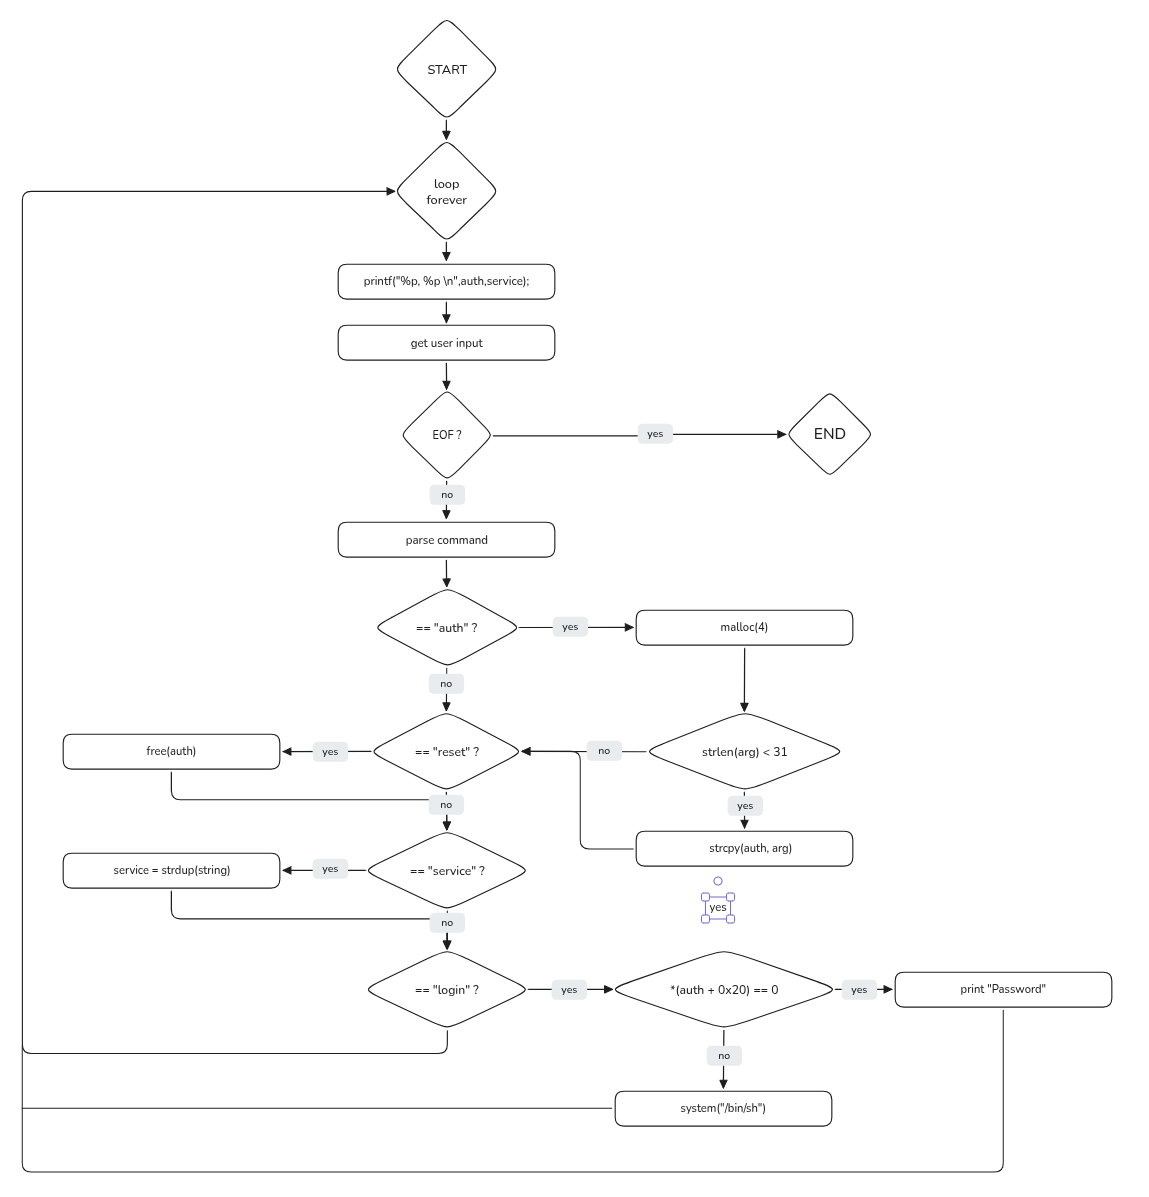
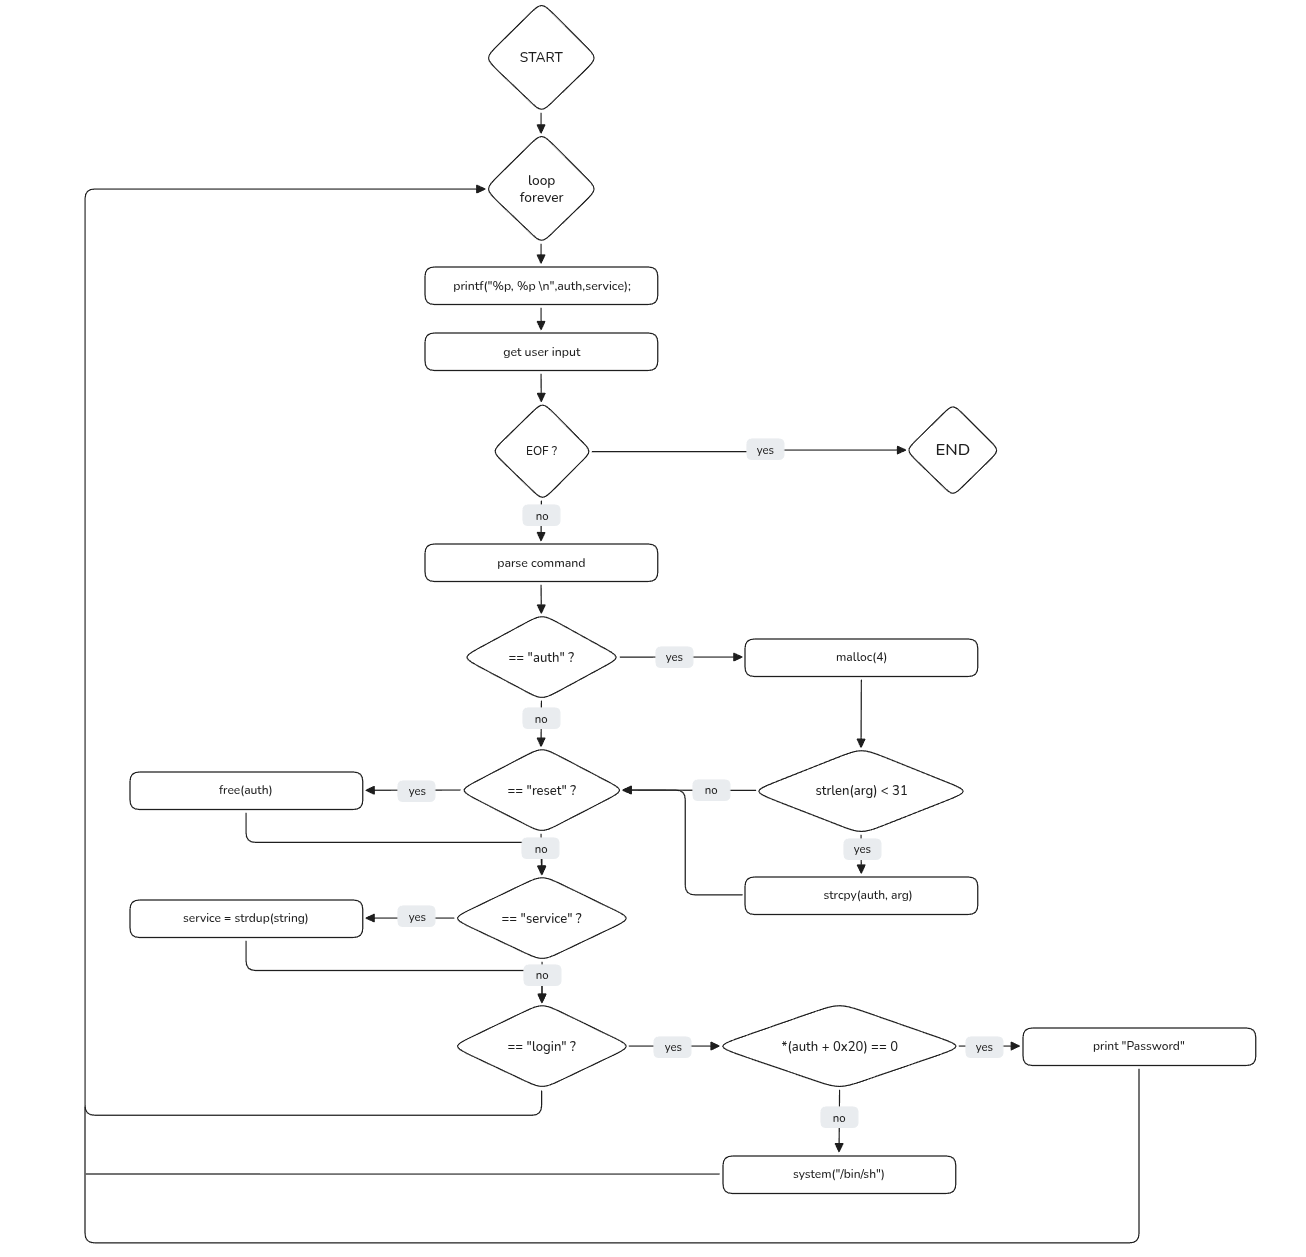
[EDIT] fix some png

diff --git a/bonus0/walkthrough.md b/bonus0/walkthrough.md
@@ -259,6 +259,10 @@ Now we have to **move forward** in it to **get in the middle** of the **`NOP` in
 
 ---
 
+### Overflow Visualization
+
+![img](Ressources/bonus0.png)
+
 ### Create the Payload
 
 
